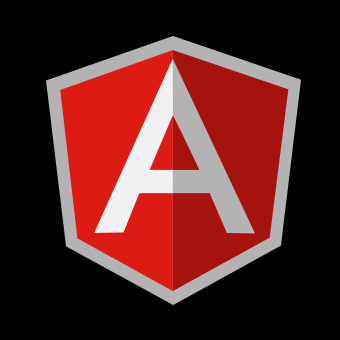
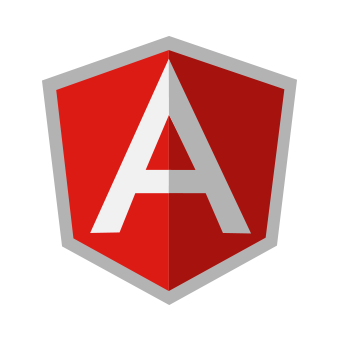
Updated roadmap and some other minor fixes about the package

diff --git a/component-intellisense/README.md b/component-intellisense/README.md
@@ -1,7 +1,7 @@
 # Angular components intellisense
 
 This extension is a result of hackathon event done in the company we work for. We had an option to invest 2 days into anything we could possibly want.
-We choose to develop an extension for VS Code which would make our daily work easier. Our current project is an Angular 1.5 based web application. As an Angular developers we wanted to have auto-completion for all custom components that are available in our application.
+We chose to develop an extension for VS Code which would make our daily work easier. Our current project is an Angular 1.5 based web application. As an Angular developers we wanted to have auto-completion for all custom components that are available in our application.
 This is still a preview version. It's our first attempt to VS Code extension, so not everything may be perfect. Do not hesitate to report any issues you may find.
 
 ## Features
@@ -42,10 +42,17 @@ It can also help with bindings (will only suggest missing ones):
 This plugin contributes the following [settings](https://code.visualstudio.com/docs/customization/userandworkspace):
 
 - `ngIntelliSense.componentGlob`: glob string used to search for components. Default value is  **\*\*/\*Component.ts**
-- `ngIntelliSense.ignore`: ignored files *[not implemented yet]*
 
 ## Roadmap
 
 The following features are planned:
 - ability to specify multiple globs in configuration
-- TBD
+- **Find all references** for components in html view
+- **Go to definition** for components in html view
+	- ability to pick which file to open if possible (view, component or controller)
+	- should work for both the component and it's attributes/bindings
+- auto refresh components when they change (reload only the one that has changed)
+- refresh all when configuration changes (glob for example)
+- feature flags to disable specific functions
+- rename component feature - update all usages
+

diff --git a/component-intellisense/CHANGELOG.md b/component-intellisense/CHANGELOG.md
@@ -1,0 +1,11 @@
+# Changelog
+
+## Version 0.1.1
+
+* Fixed Angular icon (non-transparent background - my bad!)
+* Removed some dead configuration
+* Added this change log file
+
+## Version 0.1.0
+
+* Initial Release
